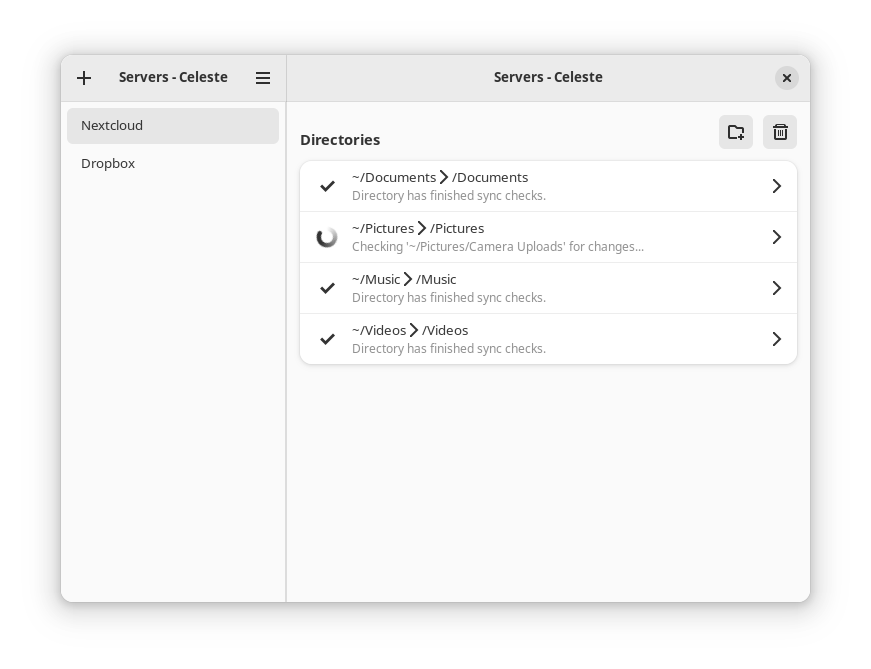
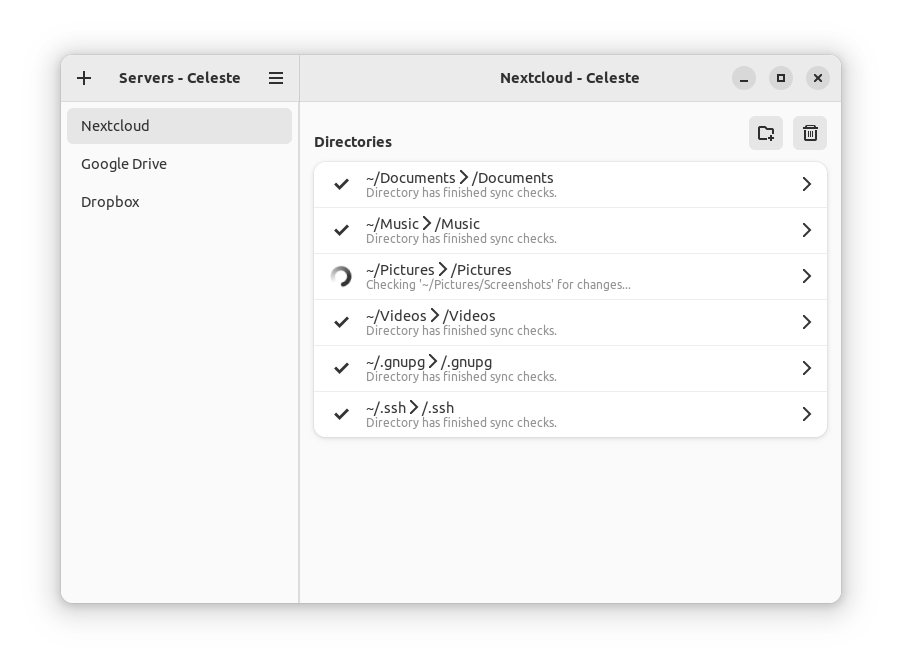
Improve titlebars in main application window

diff --git a/celeste/src/launch.rs b/celeste/src/launch.rs
@@ -18,6 +18,7 @@ use adw::{
     },
     prelude::*,
     Application, ApplicationWindow, Bin, EntryRow, HeaderBar, Leaflet, LeafletTransitionType,
+    WindowTitle,
 };
 use file_lock::{FileLock, FileOptions};
 use indexmap::IndexMap;
@@ -983,7 +984,17 @@ pub fn launch(app: &Application, background: bool) {
         .hexpand(true)
         .css_classes(vec!["stack".to_string()])
         .build();
-    let stack_header = HeaderBar::builder().build();
+    let stack_window_title = WindowTitle::new(
+        &libceleste::get_title!("{}", stack.visible_child_name().unwrap()),
+        "",
+    );
+    stack.connect_visible_child_notify(glib::clone!(@weak sections, @weak stack_box, @weak stack_window_title => move |stack| {
+        stack_window_title.set_title(&libceleste::get_title!("{}", stack.visible_child_name().unwrap()));
+        sections.set_visible_child(&stack_box);
+    }));
+    let stack_header = HeaderBar::builder()
+        .title_widget(&stack_window_title)
+        .build();
     let stack_nav_left_button = Button::from_icon_name("go-previous-symbolic");
     stack_box.append(&stack_header);
     stack_box.append(&stack);

diff --git a/CHANGELOG.md b/CHANGELOG.md
@@ -6,6 +6,10 @@ and this project adheres to [Semantic Versioning](https://semver.org/spec/v2.0.0
 
 ## [Unreleased]
 
+## [0.3.3] - 2023-02-02
+### Changed
+- Improved titlebars in main application window.
+
 ## [0.3.2] - 2023-02-02
 ### Changed
 - Added better error handing when sending DBus messages.
